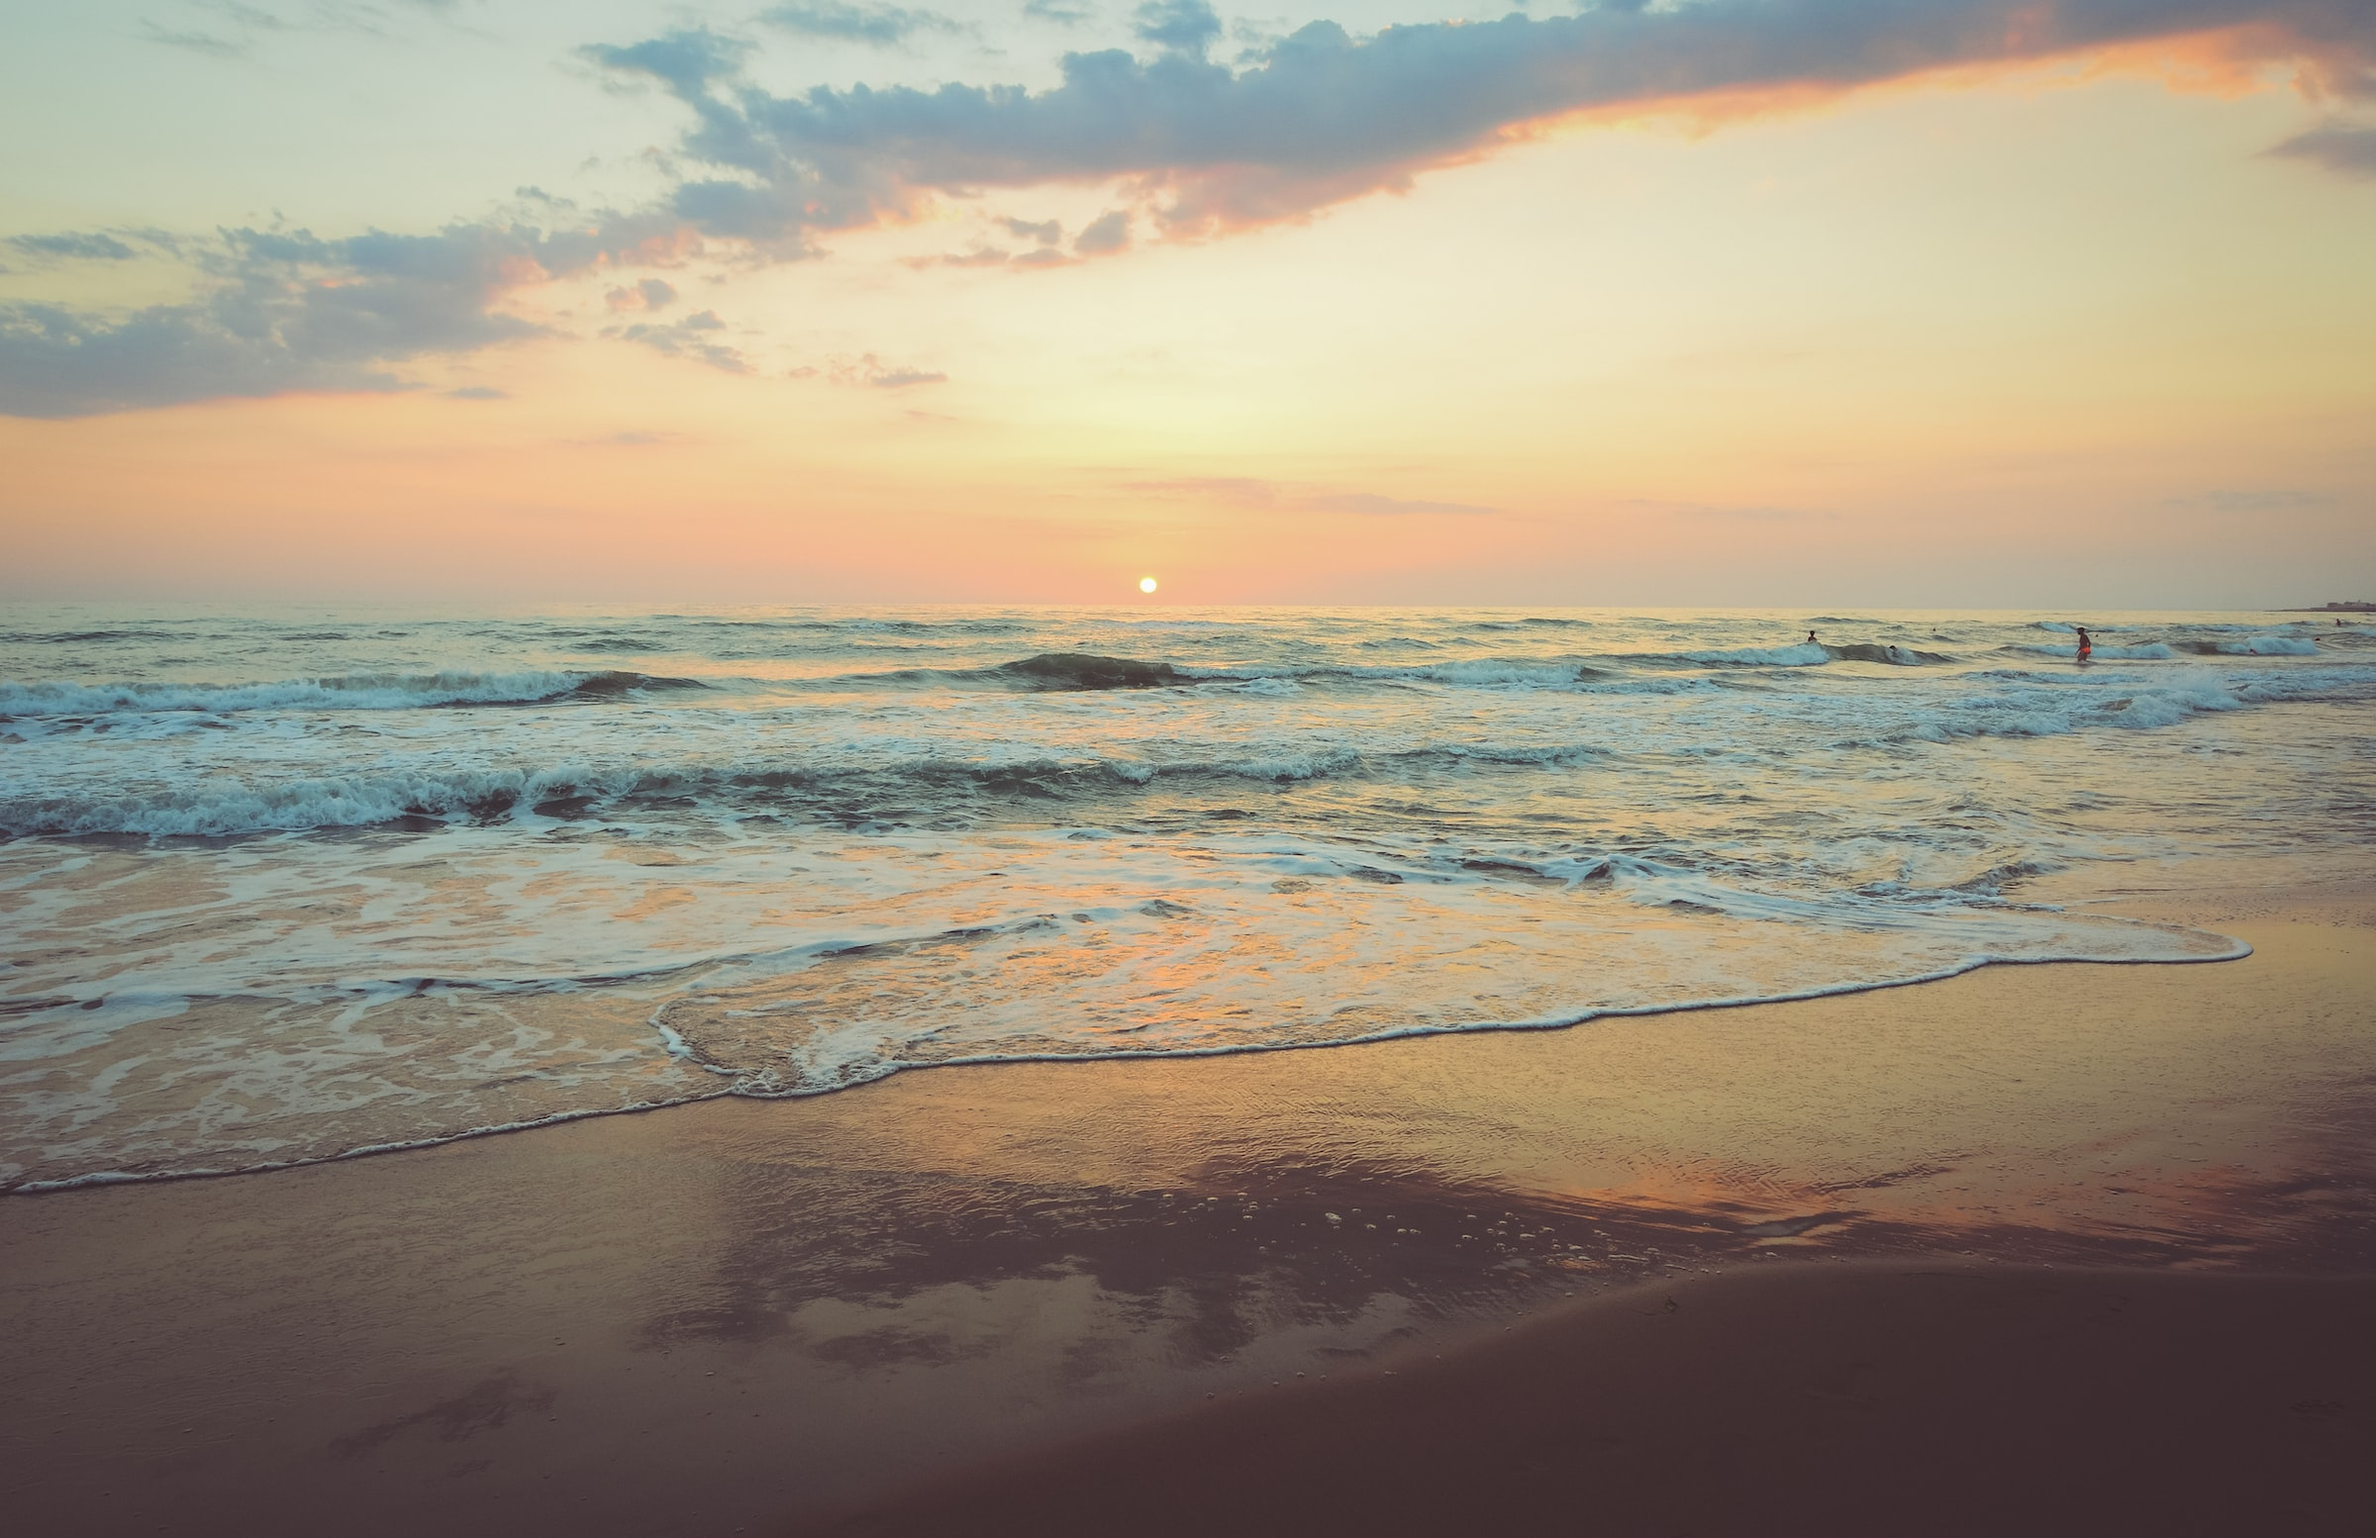
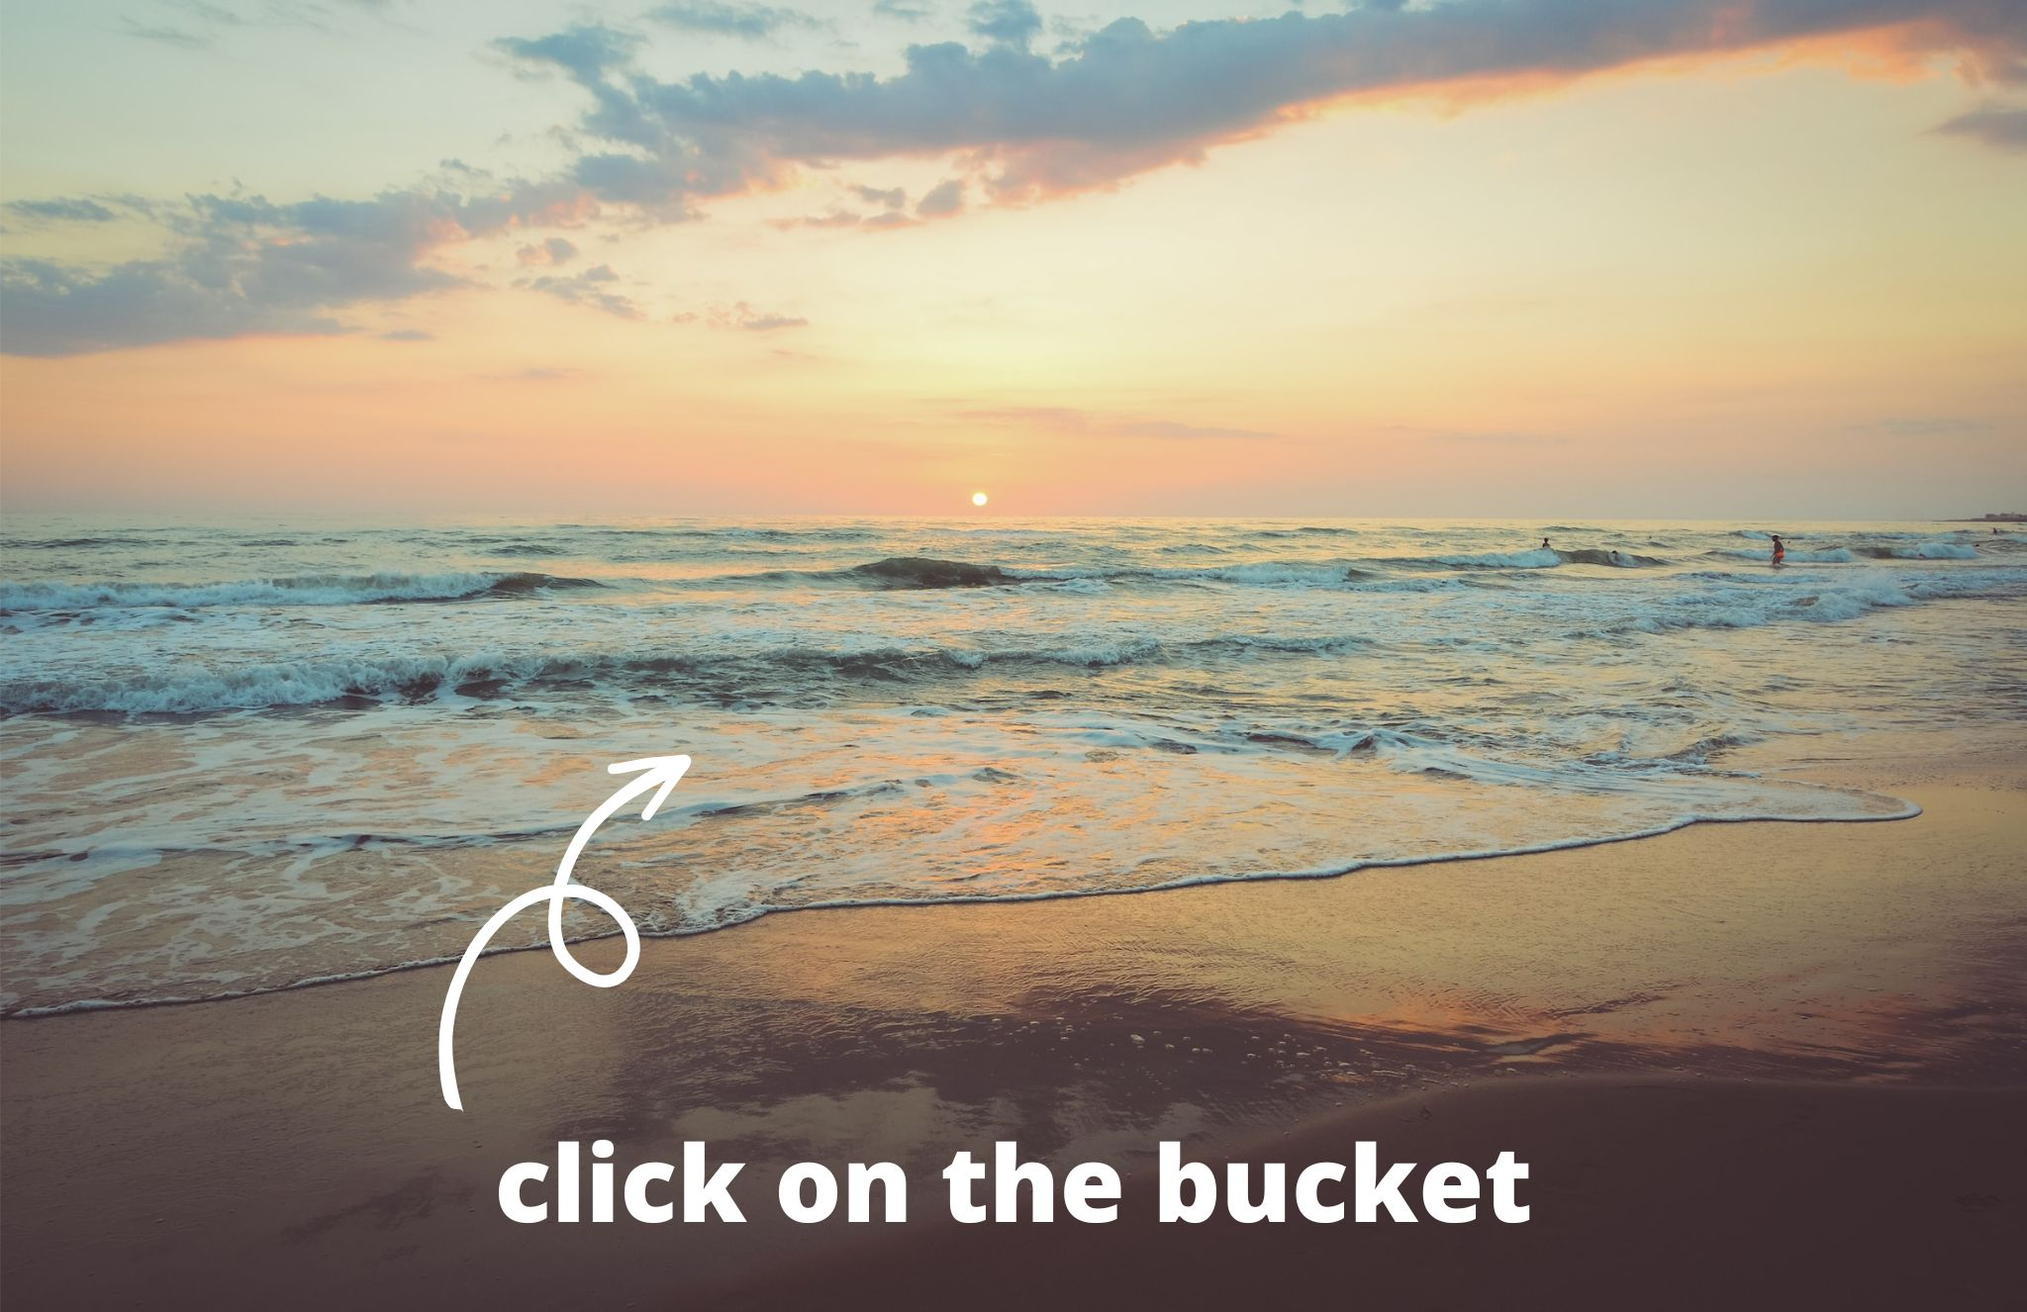
fixed background

Changed region(s): [[0.25, 0.8658, 0.75, 0.9276], [0.2188, 0.5566, 0.3438, 0.8348]]

diff --git a/main.js b/main.js
@@ -40,7 +40,9 @@ function main() {
     ++mouseDown;
 
     if (event.x > 300 && event.x < 700 && event.y > 100 && event.y < 420){
-      window.location = "https://lauracharria.notion.site/Welcome-to-Lala-s-Portfolio-69ada19a1a2c416586c63101d9477350";
+      alert(event.x);
+      alert(event.y);
+      //window.location = "https://lauracharria.notion.site/Welcome-to-Lala-s-Portfolio-69ada19a1a2c416586c63101d9477350";
     }
   };
   canvas.onmouseup = function () {
